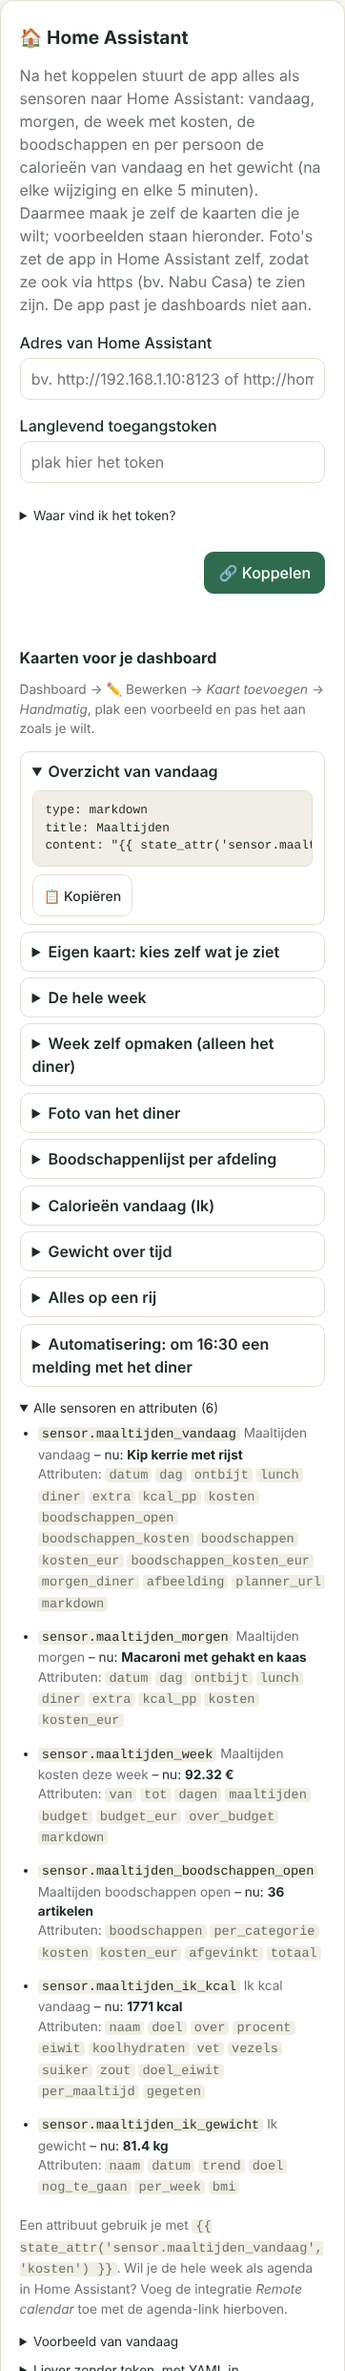
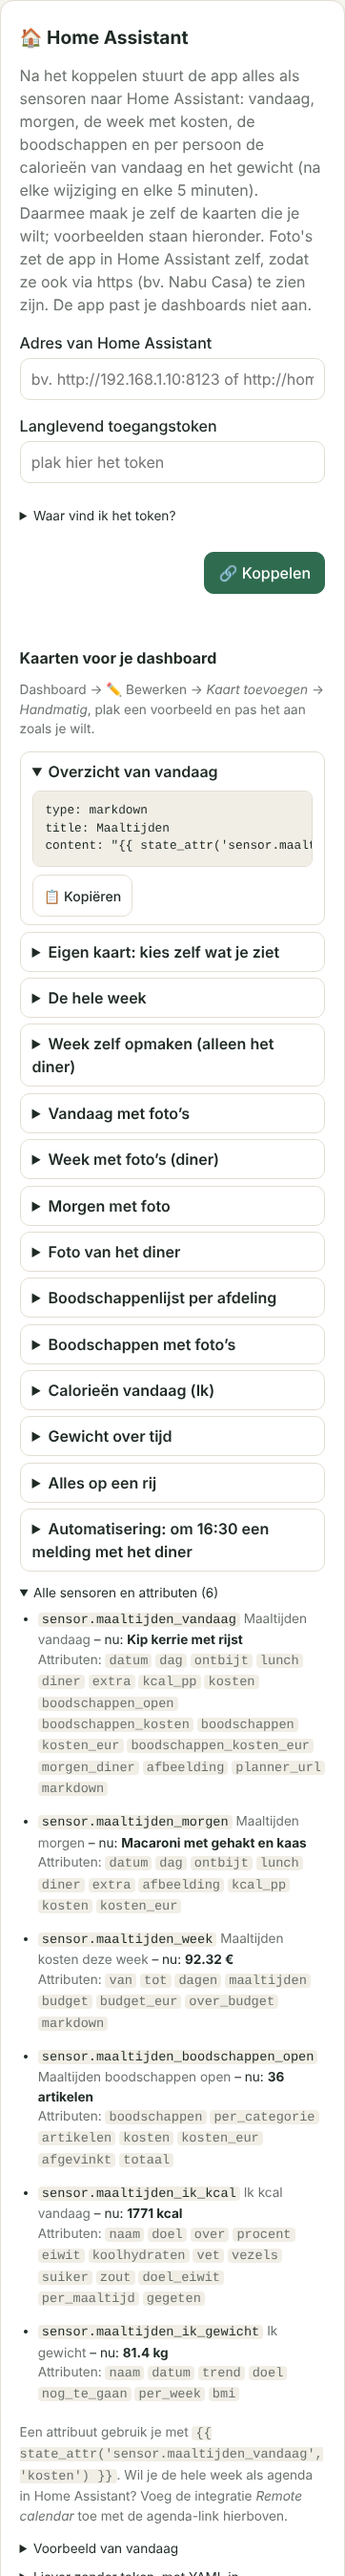
Home Assistant: een foto bij alles (v3.11.0)
Elke maaltijd van vandaag, morgen en de week en elk boodschappen-artikel
krijgt een afbeelding: van het recept, anders van een ingrediënt, anders
het app-icoon. Morgen en de week krijgen ook een entity_picture. Alle
foto's worden (één keer, vier tegelijk) in Home Assistant gezet, zodat ze
via https zichtbaar zijn. Nieuwe voorbeeldkaarten met foto's.

Claude-Session: https://claude.ai/code/session_015qDAoaVP1ozdDQMcVU3Sjt

diff --git a/server/homeassistant.js b/server/homeassistant.js
@@ -40,22 +40,39 @@ function entryTitle(e) {
  * Overzicht van vandaag (en het diner van morgen) voor Home Assistant.
  * @param baseUrl adres van de app, voor links in de kaart
  */
-export function todayOverview(baseUrl = '') {
-  const today = todayISO();
-  const meals = getSetting('meals', ['ontbijt', 'lunch', 'diner']);
-  const plan = repo.getPlan(today, 2);
-  const [day, tomorrow] = plan.days;
-  const absolute = (u) => (!u ? null : /^https?:/.test(u) ? u : `${baseUrl}/${u.replace(/^\//, '')}`);
+const FALLBACK_IMAGE = 'icons/icon-512.png';
+const absoluteUrl = (u, baseUrl) => (!u ? null : /^https?:/.test(u) ? u : `${baseUrl}/${u.replace(/^\//, '')}`);
 
-  const toItem = (e) => ({
+/** Foto bij een geplande maaltijd: van het recept, anders van een ingrediënt erbij of met dezelfde naam, anders het app-icoon. */
+function entryImage(e) {
+  return e.image_url
+    || e.extras?.find((x) => x.image_url)?.image_url
+    || (e.title ? repo.matchIngredient(e.title)?.image_url : null)
+    || FALLBACK_IMAGE;
+}
+
+/** Foto bij een artikel op de boodschappenlijst. */
+const shopImage = (name, image) => image || repo.matchIngredient(name)?.image_url || FALLBACK_IMAGE;
+
+/** Eén geplande maaltijd voor Home Assistant (vandaag, morgen en de week). */
+function itemOf(e, baseUrl) {
+  return {
     titel: entryTitle(e),
     personen: e.servings,
     kcal_pp: e.kcal_per_serving != null ? Math.round(e.kcal_per_serving) : null,
     kosten: e.leftover_of ? null : euro(e.cost_cents),
     restjes: !!e.leftover_of,
     recept_url: e.recipe_id ? `${baseUrl}/#/recept/${e.recipe_id}?personen=${e.servings}` : null,
-    afbeelding: e.recipe_id ? absolute(e.image_url || null) : null,
-  });
+    afbeelding: absoluteUrl(entryImage(e), baseUrl),
+  };
+}
+
+export function todayOverview(baseUrl = '') {
+  const today = todayISO();
+  const meals = getSetting('meals', ['ontbijt', 'lunch', 'diner']);
+  const plan = repo.getPlan(today, 2);
+  const [day, tomorrow] = plan.days;
+  const toItem = (e) => itemOf(e, baseUrl);
   const byMeal = Object.fromEntries(meals.map((m) => [m, day.entries.filter((e) => e.meal === m).map(toItem)]));
   const extra = day.entries.filter((e) => !meals.includes(e.meal)).map(toItem);
 
@@ -123,11 +140,13 @@ function personSlugs() {
 }
 
 /** Maaltijden van één dag als korte lijst per moment (voor morgen en de week). */
-function dayMeals(day, meals) {
-  const titles = (m) => day.entries.filter((e) => e.meal === m).map(entryTitle);
+function dayMeals(day, meals, baseUrl) {
+  const items = (m) => day.entries.filter((e) => e.meal === m).map((e) => itemOf(e, baseUrl));
+  const dinner = day.entries.find((e) => e.meal === 'diner') || day.entries[0];
   return {
-    ...Object.fromEntries(meals.map((m) => [m, titles(m)])),
-    extra: day.entries.filter((e) => !meals.includes(e.meal)).map(entryTitle),
+    ...Object.fromEntries(meals.map((m) => [m, items(m)])),
+    extra: day.entries.filter((e) => !meals.includes(e.meal)).map((e) => itemOf(e, baseUrl)),
+    afbeelding: absoluteUrl(dinner ? entryImage(dinner) : FALLBACK_IMAGE, baseUrl),
     kcal_pp: Math.round(day.nutrition_per_person.kcal || 0),
     kosten: euro(day.cost_cents),
     kosten_eur: eur(day.cost_cents),
@@ -151,18 +170,19 @@ export function haSensors(baseUrl = '') {
 
   // Morgen
   const tomorrow = repo.getPlan(addDays(today, 1), 1).days[0];
-  const m = dayMeals(tomorrow, meals);
-  add('morgen', m.diner?.[0] || (tomorrow.entries.length ? tomorrow.entries.map(entryTitle).join(', ') : 'Niets gepland'), {
-    datum: tomorrow.date, dag: dayName(tomorrow.date), ...m, friendly_name: 'Maaltijden morgen', icon: 'mdi:calendar-arrow-right',
+  const m = dayMeals(tomorrow, meals, baseUrl);
+  add('morgen', m.diner?.[0]?.titel || (tomorrow.entries.length ? tomorrow.entries.map(entryTitle).join(', ') : 'Niets gepland'), {
+    datum: tomorrow.date, dag: dayName(tomorrow.date), ...m,
+    friendly_name: 'Maaltijden morgen', icon: 'mdi:calendar-arrow-right', entity_picture: m.afbeelding || undefined,
   });
 
   // Deze week (maandag t/m zondag)
   const monday = mondayOf(new Date(`${today}T12:00:00`));
   const week = repo.getPlan(monday, 7);
   const budget = getSetting('weekly_budget_cents', null);
-  const days = week.days.map((d) => ({ datum: d.date, dag: dayName(d.date), ...dayMeals(d, meals) }));
+  const days = week.days.map((d) => ({ datum: d.date, dag: dayName(d.date), ...dayMeals(d, meals, baseUrl) }));
   const weekLines = ['| Dag | ' + meals.map(cap).join(' | ') + ' |', '|---|' + meals.map(() => '---').join('|') + '|'];
-  for (const d of days) weekLines.push(`| ${d.datum === today ? '**' : ''}${cap(d.dag.split(' ')[0])}${d.datum === today ? '**' : ''} | ${meals.map((x) => d[x].join(', ') || '–').join(' | ')} |`);
+  for (const d of days) weekLines.push(`| ${d.datum === today ? '**' : ''}${cap(d.dag.split(' ')[0])}${d.datum === today ? '**' : ''} | ${meals.map((x) => d[x].map((i) => i.titel).join(', ') || '–').join(' | ')} |`);
   weekLines.push('', `Totaal ${euro(week.total_cost_cents)}${budget ? ` van ${euro(budget)} budget` : ''}`);
   add('week', eur(week.total_cost_cents), {
     van: week.start, tot: week.end, dagen: days,
@@ -171,6 +191,7 @@ export function haSensors(baseUrl = '') {
     over_budget: budget ? week.total_cost_cents > budget : false,
     markdown: weekLines.join('\n'),
     friendly_name: 'Maaltijden kosten deze week', icon: 'mdi:calendar-week', unit_of_measurement: '€', state_class: 'measurement',
+    entity_picture: days.find((d) => d.datum === today)?.afbeelding || undefined,
   });
 
   // Boodschappen
@@ -180,8 +201,14 @@ export function haSensors(baseUrl = '') {
   const perCat = {};
   for (const i of open) (perCat[i.category] ||= []).push(i.name);
   if (openExtras.length) perCat['Eigen artikelen'] = openExtras.map((x) => x.name);
+  const amount = (i) => (i.packages && i.package_label ? `${i.packages}× ${i.package_label}`
+    : i.unit === 'g' || !i.quantity ? `${Math.round(i.grams)} g` : `${i.quantity} ${i.unit}`);
+  const artikelen = [
+    ...open.map((i) => ({ naam: i.name, categorie: i.category, hoeveelheid: amount(i), kosten: euro(i.cost_cents), afbeelding: absoluteUrl(shopImage(i.name, i.image_url), baseUrl) })),
+    ...openExtras.map((x) => ({ naam: x.name, categorie: 'Eigen artikelen', hoeveelheid: null, kosten: null, afbeelding: absoluteUrl(shopImage(x.name), baseUrl) })),
+  ].slice(0, 60);
   add('boodschappen_open', open.length + openExtras.length, {
-    boodschappen: vandaag.boodschappen, per_categorie: perCat,
+    boodschappen: vandaag.boodschappen, per_categorie: perCat, artikelen,
     kosten: vandaag.boodschappen_kosten, kosten_eur: vandaag.boodschappen_kosten_eur,
     afgevinkt: shop.items.filter((i) => i.checked).length + shop.extras.filter((x) => x.checked).length,
     totaal: shop.items.length + shop.extras.length,
@@ -251,8 +278,32 @@ content: "{{ state_attr('sensor.maaltijden_week', 'markdown') }}"` },
 title: Diners deze week
 content: |
   {% for d in state_attr('sensor.maaltijden_week', 'dagen') %}
-  **{{ d.dag.split(' ')[0] | capitalize }}:** {{ d.diner | join(', ') or '–' }}
+  **{{ d.dag.split(' ')[0] | capitalize }}:** {{ d.diner | map(attribute='titel') | join(', ') or '–' }}
   {% endfor %}` },
+    { title: 'Vandaag met foto’s', yaml: `type: markdown
+title: Vandaag
+content: |
+  {% set v = states.sensor.maaltijden_vandaag.attributes %}
+  {% for moment in ['ontbijt', 'lunch', 'diner'] %}
+  **{{ moment | capitalize }}**
+  {% for x in v.get(moment) or [] %}
+  <img src="{{ x.afbeelding }}" width="72"> {{ x.titel }}{% if x.kcal_pp %} · {{ x.kcal_pp }} kcal{% endif %}
+  {% else %}–
+  {% endfor %}
+  {% endfor %}` },
+    { title: 'Week met foto’s (diner)', yaml: `type: markdown
+title: Deze week
+content: |
+  <table>
+  {% for d in state_attr('sensor.maaltijden_week', 'dagen') %}
+  <tr><td><img src="{{ d.afbeelding }}" width="56"></td>
+  <td><b>{{ d.dag.split(' ')[0] | capitalize }}</b><br>{{ d.diner | map(attribute='titel') | join(', ') or '–' }}</td></tr>
+  {% endfor %}
+  </table>` },
+    { title: 'Morgen met foto', yaml: `type: picture-entity
+entity: sensor.maaltijden_morgen
+name: Morgen
+show_state: true` },
     { title: 'Foto van het diner', yaml: `type: picture-entity
 entity: sensor.maaltijden_vandaag
 show_name: false
@@ -264,6 +315,13 @@ content: |
   {% if not c %}Alles is gehaald 🎉{% endif %}
   {% for cat, items in (c or {}).items() %}
   **{{ cat }}**: {{ items | join(', ') }}
+  {% endfor %}` },
+    { title: 'Boodschappen met foto’s', yaml: `type: markdown
+title: Boodschappen
+content: |
+  {% for x in state_attr('sensor.maaltijden_boodschappen_open', 'artikelen') or [] %}
+  <img src="{{ x.afbeelding }}" width="40"> {{ x.naam }}{% if x.hoeveelheid %} – {{ x.hoeveelheid }}{% endif %}
+  {% else %}Alles is gehaald 🎉
   {% endfor %}` },
     { title: `Calorieën vandaag (${first?.attributes.naam || 'persoon'})`, yaml: `type: gauge
 entity: sensor.maaltijden_${p}_kcal
@@ -424,7 +482,8 @@ async function haImage(link, src) {
     if (!id) return src;
     const url = `/api/image/serve/${id}/512x512`;
     // Oudste vergeten als het er veel worden (de foto's blijven in Home Assistant staan)
-    const entries = Object.entries({ ...cache, [img.key]: url }).slice(-200);
+    // Opnieuw lezen: er lopen een paar uploads tegelijk
+    const entries = Object.entries({ ...getSetting('homeassistant_images', {}), [img.key]: url }).slice(-2000);
     setSetting('homeassistant_images', Object.fromEntries(entries));
     return url;
   } catch {
@@ -432,25 +491,38 @@ async function haImage(link, src) {
   }
 }
 
-/** Foto's in de sensor van vandaag vervangen door adressen die Home Assistant kan tonen. */
-async function withHaImages(link, sensor) {
-  const a = sensor.attributes;
-  const fix = async (u) => (u ? haImage(link, u) : u);
-  for (const meal of Object.keys(a)) {
-    if (Array.isArray(a[meal]) && a[meal].some((x) => x && typeof x === 'object' && 'afbeelding' in x)) {
-      for (const item of a[meal]) item.afbeelding = await fix(item.afbeelding);
+/** Alle foto's (attribuut ‘afbeelding’, op elke diepte, en entity_picture) vervangen door adressen die Home Assistant kan tonen. */
+async function withHaImages(link, sensors) {
+  const spots = [];
+  const walk = (o) => {
+    if (Array.isArray(o)) o.forEach(walk);
+    else if (o && typeof o === 'object') {
+      for (const [k, v] of Object.entries(o)) {
+        if ((k === 'afbeelding' || k === 'entity_picture') && typeof v === 'string') spots.push([o, k, v]);
+        else walk(v);
+      }
     }
-  }
-  a.afbeelding = await fix(a.afbeelding);
-  a.entity_picture = a.afbeelding || undefined;
-  return sensor;
+  };
+  sensors.forEach((x) => walk(x.attributes));
+  // Elke foto één keer, met een paar tegelijk
+  const unique = [...new Set(spots.map(([, , v]) => v))];
+  const done = new Map();
+  const queue = [...unique];
+  await Promise.all(Array.from({ length: 4 }, async () => {
+    while (queue.length) {
+      const src = queue.shift();
+      done.set(src, await haImage(link, src));
+    }
+  }));
+  for (const [o, k, v] of spots) o[k] = done.get(v) ?? v;
+  return sensors;
 }
 
 /** Sensoren bijwerken (maakt ze aan als ze nog niet bestaan). */
 export async function pushStates(link = haLink()) {
   if (!link) return false;
-  for (const x of haSensors(link.app_url)) {
-    if (x.key === 'vandaag') await withHaImages(link, x);
+  const sensors = await withHaImages(link, haSensors(link.app_url));
+  for (const x of sensors) {
     await haFetch(link, `/api/states/${x.entity_id}`, { method: 'POST', body: JSON.stringify({ state: x.state, attributes: x.attributes }) });
   }
   return true;

diff --git a/test/api.test.js b/test/api.test.js
@@ -251,7 +251,14 @@ test('Home Assistant: overzicht van vandaag en kant-en-klare YAML', async () => 
   assert.equal(data.datum, today);
   assert.equal(all.morgen.dag.length > 0, true);
   assert.equal(all.week.dagen.length, 7);
-  assert.ok(all.week.dagen.find((d) => d.datum === today).diner.includes('Nasi goreng'));
+  assert.ok(all.week.dagen.find((d) => d.datum === today).diner.some((x) => x.titel === 'Nasi goreng'));
+  // Voor alles een foto: maaltijden (ook zonder recept), morgen, de week en elk boodschappen-artikel
+  const photos = [...Object.values(data).flat(), ...all.week.dagen.flatMap((d) => [...d.ontbijt, ...d.lunch, ...d.diner, ...d.extra])]
+    .filter((x) => x && typeof x === 'object' && 'titel' in x);
+  assert.ok(photos.length > 2 && photos.every((x) => /^http:\/\/localhost:\d+\/\S+\.(jpe?g|png|webp)/.test(x.afbeelding)), JSON.stringify(photos.map((x) => x.afbeelding)));
+  assert.ok(data.lunch.find((x) => x.titel === 'Broodje kaas').afbeelding, 'ook zonder recept');
+  assert.ok(all.week.dagen.every((d) => !d.diner.length || d.afbeelding));
+  assert.ok(all.boodschappen_open.artikelen.length > 0 && all.boodschappen_open.artikelen.every((x) => x.afbeelding && x.naam));
   // (een nieuwe database heeft al een paar voorbeeldmaaltijden deze week)
   const nasi = data.diner.find((x) => x.titel === 'Nasi goreng');
   assert.ok(nasi, JSON.stringify(data.diner));

diff --git a/test/homeassistant.test.js b/test/homeassistant.test.js
@@ -48,6 +48,13 @@ test('koppelen: sensoren aangemaakt, dashboards niet aangeraakt', async () => {
   assert.ok(v.diner.every((x) => !x.afbeelding || x.afbeelding.startsWith('/api/image/serve/')), JSON.stringify(v.diner));
   const uploads = ha.uploads.length;
   assert.ok(uploads > 0);
+  // Alle foto's, op elke plek in alle sensoren
+  const found = [];
+  const walk = (o) => { if (o && typeof o === 'object') for (const [k, x] of Object.entries(o)) (k === 'afbeelding' || k === 'entity_picture') && typeof x === 'string' ? found.push(x) : walk(x); };
+  walk(ha.states);
+  assert.ok(found.length > 10, `${found.length} foto's`);
+  assert.ok(found.every((u) => u.startsWith('/api/image/serve/')), found.filter((u) => !u.startsWith('/api/image/serve/')).join(' '));
+  assert.equal(ha.uploads.length, new Set(found).size, 'elke foto één keer geüpload');
   assert.ok(!ha.calls.some((c) => c.startsWith('WS ')), `geen dashboard-commando's: ${ha.calls}`);
   assert.equal(ha.configs.main.views[0].cards.length, 1);
   assert.equal(ha.dashboards.length, 0);

diff --git a/docs/handleiding.md b/docs/handleiding.md
@@ -188,9 +188,9 @@ Token aanmaken) en tik op **🔗 Koppelen**. De app maakt deze sensoren en werkt
 | Sensor | Waarde | Belangrijkste attributen |
 |---|---|---|
 | `sensor.maaltijden_vandaag` | diner van vandaag | `ontbijt`, `lunch`, `diner` (met `titel`, `kcal_pp`, `kosten`, `recept_url`), `kcal_pp`, `kosten`, `morgen_diner`, `afbeelding`, `markdown` |
-| `sensor.maaltijden_morgen` | diner van morgen | `ontbijt`, `lunch`, `diner`, `kcal_pp`, `kosten` |
-| `sensor.maaltijden_week` | kosten deze week (€) | `dagen` (per dag de maaltijden, kcal en kosten), `budget`, `over_budget`, `markdown` (tabel) |
-| `sensor.maaltijden_boodschappen_open` | aantal nog te halen | `boodschappen`, `per_categorie`, `kosten`, `afgevinkt`, `totaal` |
+| `sensor.maaltijden_morgen` | diner van morgen | `ontbijt`, `lunch`, `diner` (zoals bij vandaag), `kcal_pp`, `kosten`, `afbeelding` |
+| `sensor.maaltijden_week` | kosten deze week (€) | `dagen` (per dag de maaltijden met foto, kcal, kosten en `afbeelding` van het diner), `budget`, `over_budget`, `markdown` (tabel) |
+| `sensor.maaltijden_boodschappen_open` | aantal nog te halen | `artikelen` (naam, afdeling, hoeveelheid, `afbeelding`), `boodschappen`, `per_categorie`, `kosten`, `afgevinkt`, `totaal` |
 | `sensor.maaltijden_<naam>_kcal` | gegeten vandaag (dagboek) | `doel`, `over`, `procent`, `eiwit`, `koolhydraten`, `vet`, `per_maaltijd`, `gegeten` |
 | `sensor.maaltijden_<naam>_gewicht` | laatste gewicht (kg) | `trend`, `doel`, `nog_te_gaan`, `per_week`, `bmi` |
 
@@ -199,8 +199,12 @@ een eigen kaart waarin je zelf kiest wat je ziet, de week, de foto van het diner
 een gewichtsgrafiek, alle sensoren op een rij en een automatisering die om 16:30 meldt wat je eet.
 Plakken doe je in Home Assistant via Dashboard → ✏ Bewerken → *Kaart toevoegen* → *Handmatig*. Daar staat ook de lijst met alle sensoren en attributen.
 
+**Foto's bij alles.** Elke maaltijd (vandaag, morgen, de week) en elk boodschappen-artikel heeft een `afbeelding`: de foto van het recept,
+anders van een ingrediënt erbij of met dezelfde naam (bv. *Broodje kaas* → kaas), anders het app-icoon. De sensoren voor vandaag, morgen en de week
+hebben ook een `entity_picture` (foto van het diner), voor een *Picture entity*-kaart.
+
 **Foto's.** Home Assistant via https (bv. Nabu Casa) kan geen foto's van een http-adres tonen. Bij koppelen zet de app de foto van het
-diner daarom in Home Assistant zelf (zoals een profielfoto) en verwijst naar `/api/image/serve/…` op je Home Assistant; zo komt hij via https.
+foto's daarom in Home Assistant zelf (zoals een profielfoto) en verwijst naar `/api/image/serve/…` op je Home Assistant; zo komt hij via https.
 Elke foto wordt maar één keer geüpload. Foto's met een https-adres blijven zoals ze zijn. Bij de YAML-route komen foto's van het adres van de app;
 gebruik dan een https-adres voor de app (`APP_URL`).
 

diff --git a/README.md b/README.md
@@ -4,9 +4,10 @@ Weekplanner, receptenboek en calorieëndagboek voor op je eigen server. Plan je 
 boodschappenlijst met prijzen en voedingswaarden. Er zijn 50 Nederlandse recepten om mee te beginnen. Werkt op computer, telefoon en als Android-app.
 Geen account, geen abonnement, geen advertenties.
 
-## Laatste wijziging (v3.10.1)
+## Laatste wijziging (v3.11.0)
 
-- Home Assistant: foto's komen via Home Assistant zelf (https), zodat ze ook via Nabu Casa te zien zijn
+- Home Assistant: een foto bij alles – elke maaltijd van vandaag, morgen en de week en elk boodschappen-artikel, met voorbeeldkaarten met foto's.
+  De foto's komen via Home Assistant zelf (https), zodat ze ook via Nabu Casa te zien zijn
 - 🏡 **Home Assistant**: koppel bij **Instellingen → Home Assistant** met het adres en een toegangstoken. De app stuurt alles als sensoren:
   vandaag, morgen, de week met kosten en budget, de boodschappen per afdeling, en per persoon de calorieën van vandaag en het gewicht.
   In de instellingen staan voorbeeld-YAML voor kaarten (en een automatisering) om zelf aan te passen. De app past je dashboards niet aan
